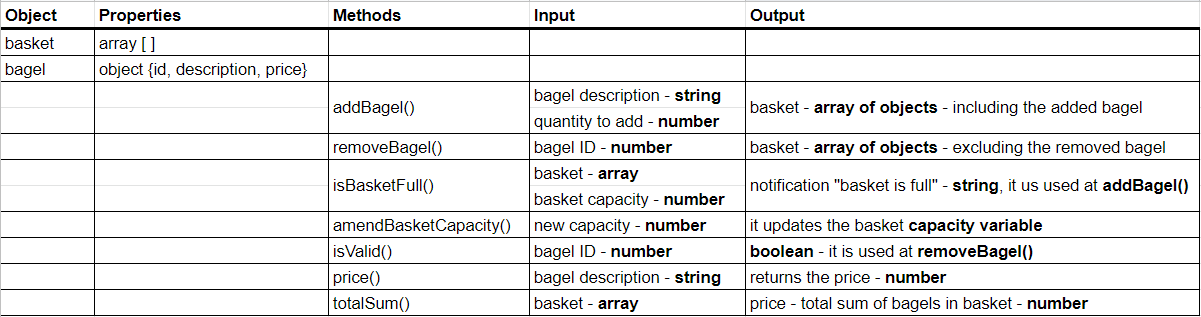
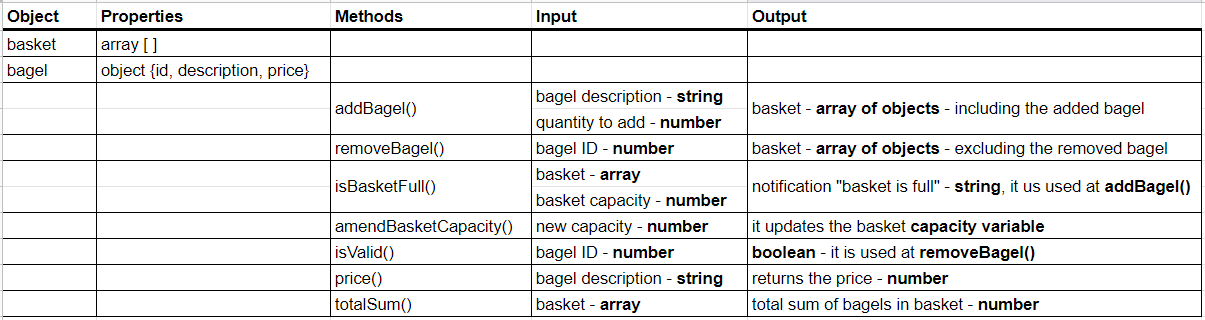
core criteria completed

Changed region(s): [[0.0, 0.0, 1.0, 1.0], [0.2773, 0.5678, 0.3697, 0.6246], [0.2773, 0.3123, 0.3697, 0.3691]]

diff --git a/spec/basket.spec.js b/spec/basket.spec.js
@@ -96,19 +96,16 @@ describe("Bob's Bagels", function () {
     expect(result).toEqual(expected);
   });
 
-  // it("returns the total sum of the basket items", () => {
-  //   // set up
-  //   const bobsBagels = new BobsBagels();
-  //   const expected = ///sum here
-  //   // execute
-  //   bobsBagels.addBagel("Plain", 3)
-  //   const result = bobsBagels.totalSum()
-  //   // verify
-  //   expect(result).toEqual(expected);
-  // });
-
-
+  it("returns the total sum of the basket items", () => {
+    // set up
+    const bobsBagels = new BobsBagels();
+    const expected = 6;
+    // execute
+    bobsBagels.addBagel("Plain", 2);
+    bobsBagels.addBagel("Not So Plain", 1);
+    bobsBagels.addBagel("Very Tasty", 3);
+    const result = bobsBagels.totalSum();
+    // verify
+    expect(result).toEqual(expected);
+  });
 });
-
-
-

diff --git a/src/basket.js b/src/basket.js
@@ -15,6 +15,14 @@ class BobsBagels {
         description: "Very Tasty",
         price: 2,
       },
+      {
+        description: "Bagel Extra",
+        price: 2.5,
+      },
+      {
+        description: "Bagel Special",
+        price: 3,
+      },
     ];
   }
 
@@ -68,6 +76,10 @@ class BobsBagels {
         return this.menu[i].price;
       }
     }
+  }
+
+  totalSum() {
+    return this.basket.length;
   }
 }
 
